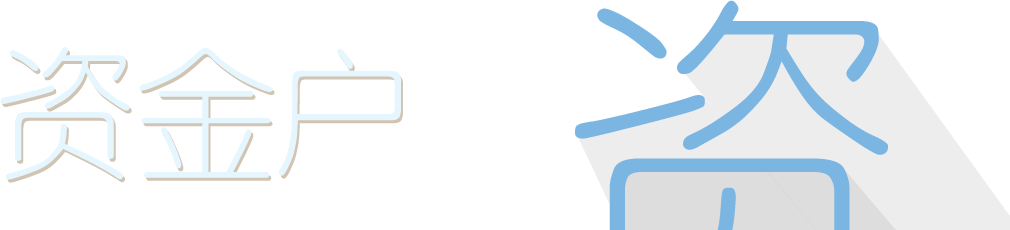
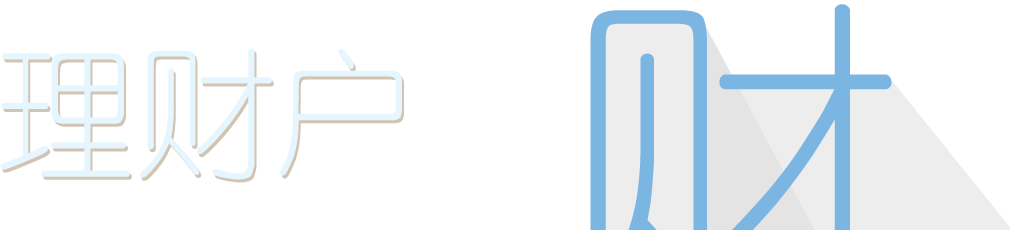
'资金户' => '理财户'

Changed region(s): [[0.5525, 0.0, 0.8901, 1.0], [0.0, 0.213, 0.3069, 0.7913]]

diff --git a/src/index.html b/src/index.html
@@ -29,7 +29,7 @@
 						<div class="entrance">
 							<a class="kh" href="login.html?type=0">我是新入市投资者，还没有股东账户</a>
 							<a class="zh" href="login.html?type=1">我已有股东账户，已撤销指定交易和完成转托管</a>
-							<a class="zjh" href="login.html?type=2">无论有没有在其他券商开立股东账户，都可开立资金账户</a>
+							<a class="zjh" href="login.html?type=2">无论有没有在其他券商开立股东账户，都可开立理财户</a>
 						</div>
 						<div class="copyright">©中华证券版权所有</div>
 					</div>

diff --git a/src/js/controllers/loginController.js b/src/js/controllers/loginController.js
@@ -17,8 +17,8 @@ define(['views/loginView', 'GS'], function (View, GS) {
 		nav: '转户',
 		desc: '我已有股东账户，已撤销指定交易和完成转托管'
 	}, {
-		nav: '开资金户',
-		desc: '无论有没有在其他券商开立股东账户，都可开立资金账户'
+		nav: '开理财户',
+		desc: '无论有没有在其他券商开立股东账户，都可开立理财户'
 	}];
 
 	function init(query) {
